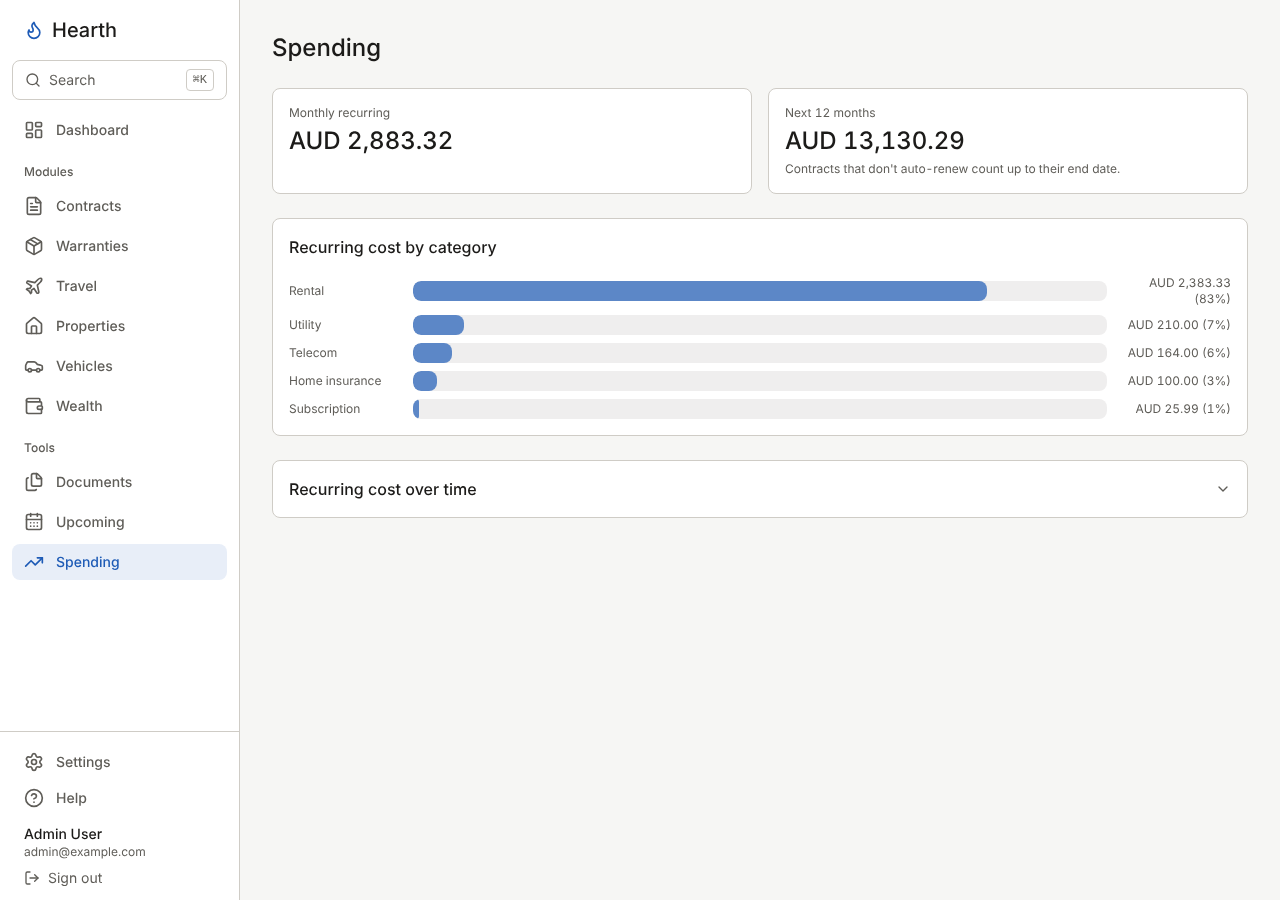
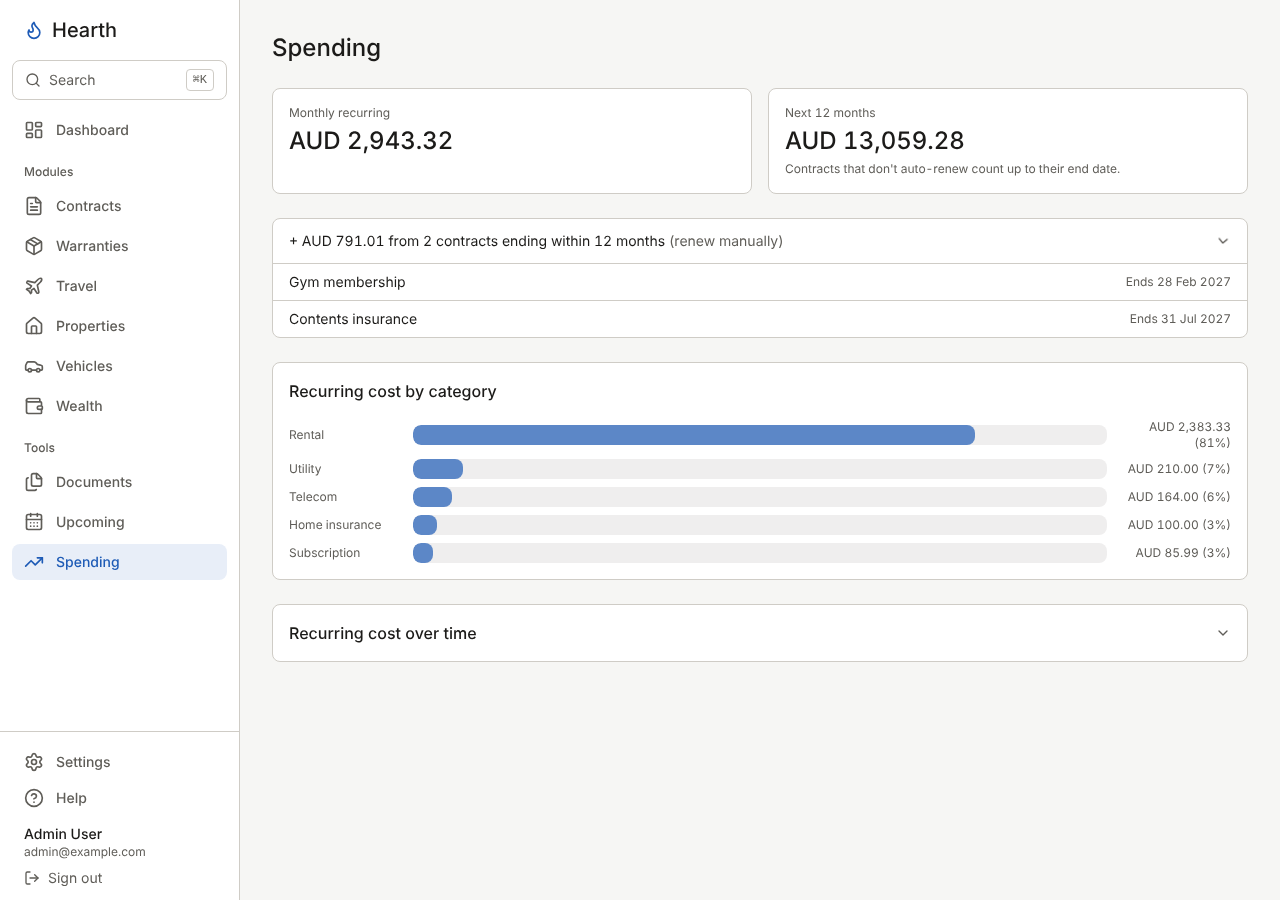
Spend lists manual renewals within the year; #514 review follow-ups
"Next 12 months" keeps stopping manual renewals at their end date. Under
the tiles, a folded line now shows what those contracts would cost for
the rest of the year if renewed, and lists them with their end dates.

From cubic's review of #514:
- The FormMessage attempt= guard matched no tags; it now matches any
  error= attribute and fails if it finds none.
- The select and FormMessage checks scan all of src/, not only the
  top-level components.
- The empty-list Recently deleted count skips rows past the 30-day window.
- The 02-validation viewport check clicks from script so Playwright's own
  scroll can't make it pass.

diff --git a/src/app/(app)/spend/page.tsx b/src/app/(app)/spend/page.tsx
@@ -5,6 +5,7 @@ import { getEnabledModuleKeys } from "@/lib/modules/enablement";
 import {
   monthlyEquivalent,
   formatCurrency,
+  formatDate,
   sumByYear,
   financialYearLabel,
   CATEGORY_LABELS,
@@ -14,6 +15,7 @@ import {
   buildYearlyTimeline,
   buildCategoryBreakdown,
   monthlySpend,
+  manualRenewalsAhead,
   nextTwelveMonthsSpend,
   timelineIsFlat,
 } from "@/lib/spend";
@@ -35,7 +37,7 @@ export default async function SpendPage({
   const { view: rawView } = await searchParams;
   const view = rawView === "yearly" ? "yearly" : "monthly";
 
-  const [enabledModules, { preferredCurrency, region }] = await Promise.all([
+  const [enabledModules, { preferredCurrency, region, dateFormat }] = await Promise.all([
     getEnabledModuleKeys(),
     getUserPreferences(),
   ]);
@@ -44,6 +46,8 @@ export default async function SpendPage({
     prisma.contract.findMany({
       where: { status: "ACTIVE", deletedAt: null },
       select: {
+        id: true,
+        title: true,
         category: true,
         cost: true,
         billingFrequency: true,
@@ -82,6 +86,8 @@ export default async function SpendPage({
   const { total: monthlyTotal, unconvertedCurrencies } = monthlySpend(contracts, preferredCurrency, rateMap);
   const hasUnconverted = unconvertedCurrencies.length > 0;
   const nextTwelveMonths = nextTwelveMonthsSpend(contracts, preferredCurrency, rateMap);
+  // The renewals "Next 12 months" leaves out, shown under the tiles.
+  const renewals = manualRenewalsAhead(contracts, preferredCurrency, rateMap);
   // #367 — the same exclusion the dashboard flags under Missing key details:
   // a cost with no billing frequency adds nothing to the monthly figure.
   const noFrequencyCount = contracts.filter((c) => c.cost != null && c.billingFrequency == null).length;
@@ -185,6 +191,36 @@ export default async function SpendPage({
           </Card>
         )}
       </div>
+
+      {/* Manual renewals inside the year: left out of "Next 12 months" until
+          renewed, listed here so the drop is explained and they get a decision. */}
+      {renewals.contracts.length > 0 && (
+        <details className={cardClass({ padding: "none" }, "group")}>
+          <summary className="flex cursor-pointer list-none items-center justify-between gap-3 px-4 py-3 text-sm [&::-webkit-details-marker]:hidden">
+            <span>
+              {renewals.amount > 0 && (
+                <>+ {formatCurrency(renewals.amount, preferredCurrency, undefined, region, { showCode: true })} from </>
+              )}
+              {renewals.contracts.length === 1 ? "1 contract" : `${renewals.contracts.length} contracts`} ending within 12
+              months <span className="text-muted">(renew manually)</span>
+            </span>
+            <ChevronDown size={16} aria-hidden className="shrink-0 text-muted transition-transform group-open:rotate-180" />
+          </summary>
+          <ul className="divide-y divide-border border-t border-border">
+            {renewals.contracts.map((c) => (
+              <li key={c.id}>
+                <Link
+                  href={`/contracts/${c.id}`}
+                  className="flex items-center justify-between gap-3 px-4 py-2 text-sm hover:bg-hover"
+                >
+                  <span className="min-w-0 truncate">{c.title}</span>
+                  <span className="shrink-0 text-xs text-muted">Ends {formatDate(c.endDate, dateFormat)}</span>
+                </Link>
+              </li>
+            ))}
+          </ul>
+        </details>
+      )}
 
       {/* Category breakdown */}
       {categoryBreakdown.length > 0 && (

diff --git a/tests/unit/consistency-pass.test.ts b/tests/unit/consistency-pass.test.ts
@@ -10,6 +10,16 @@ import { bannerRepeatsBadge, type DueEntry } from "@/lib/dueRecords";
 const root = path.join(__dirname, "..", "..");
 const read = (rel: string) => readFileSync(path.join(root, rel), "utf8");
 
+// Every .tsx file under src/, as repo-relative paths, so a check covers
+// src/app and src/components/ui as well as the top-level components.
+function tsxFiles(dir: string): string[] {
+  return readdirSync(path.join(root, dir)).flatMap((name) => {
+    const rel = path.join(dir, name);
+    if (statSync(path.join(root, rel)).isDirectory()) return name === "generated" ? [] : tsxFiles(rel);
+    return name.endsWith(".tsx") ? [rel] : [];
+  });
+}
+
 function pages(dir: string): string[] {
   return readdirSync(dir).flatMap((name) => {
     const full = path.join(dir, name);
@@ -47,13 +57,11 @@ describe("forms", () => {
 
 describe("selects", () => {
   it("styles every native select with the shared input look", () => {
-    const dir = path.join(root, "src", "components");
-    const unstyled = readdirSync(dir)
-      .filter((f) => f.endsWith(".tsx"))
+    const unstyled = tsxFiles("src")
       .flatMap((f) =>
         // The opening tag runs to the first <option or {, which is where its
         // children start; a className set to anything but the shared helpers fails.
-        [...read(`src/components/${f}`).matchAll(/<select\b[\s\S]*?(?=<option|\n\s*\{)/g)]
+        [...read(f).matchAll(/<select\b[\s\S]*?(?=<option|\n\s*\{)/g)]
           .filter((m) => !/className=\{(selectClass|inputClass|fieldClass\(|selectClassName|pillClass\()/.test(m[0]))
           .map(() => f),
       );
@@ -119,12 +127,9 @@ describe("FormMessage on a repeated failure (#514 review)", () => {
   });
 
   it("every action-state FormMessage passes its state as the attempt", () => {
-    const sources = readdirSync(path.join(root, "src", "components"))
-      .filter((name) => name.endsWith(".tsx"))
-      .map((name) => read(path.join("src", "components", name)));
-    const missing = sources
-      .flatMap((source) => source.match(/<FormMessage error=\{\w+\?\.error\}[^>]*>/g) ?? [])
-      .filter((tag) => !tag.includes("attempt="));
-    expect(missing).toEqual([]);
+    const tags = tsxFiles("src").flatMap((f) => read(f).match(/<FormMessage\s[^>]*\berror=\{[^}]*\}[^>]*>/g) ?? []);
+    // Guard against the pattern going stale and matching nothing.
+    expect(tags.length).toBeGreaterThan(10);
+    expect(tags.filter((tag) => !tag.includes("attempt="))).toEqual([]);
   });
 });

diff --git a/tests/unit/spend-projection.test.ts b/tests/unit/spend-projection.test.ts
@@ -1,5 +1,5 @@
 import { describe, expect, it } from "vitest";
-import { nextTwelveMonthsSpend, timelineIsFlat } from "@/lib/spend";
+import { manualRenewalsAhead, nextTwelveMonthsSpend, timelineIsFlat } from "@/lib/spend";
 
 // #367 — "Next 12 months" counts a contract that won't renew by itself only
 // up to its end date, instead of monthly × 12.
@@ -60,5 +60,38 @@ describe("timelineIsFlat", () => {
   it("is flat when every bucket matches, to the cent", () => {
     expect(timelineIsFlat([{ total: 50 }, { total: 50.001 }, { total: 50 }])).toBe(true);
     expect(timelineIsFlat([{ total: 50 }, { total: 60 }])).toBe(false);
+  });
+});
+
+describe("manualRenewalsAhead", () => {
+  it("lists manual renewals ending inside the year with what the rest of the year would cost", () => {
+    const soon = contract({ endDate: day("2027-02-01") });
+    const later = contract({ endDate: day("2027-06-01"), cost: 50 });
+    const { amount, contracts } = manualRenewalsAhead([later, soon], "AUD", rates, NOW);
+    expect(contracts).toEqual([soon, later]);
+    // 2 Feb 2027 → 2 Nov 2027 is 273 days; 2 Jun 2027 → 2 Nov 2027 is 153.
+    expect(amount).toBeCloseTo((1200 * 273) / 365 + (600 * 153) / 365, 6);
+  });
+
+  it("adds up with Next 12 months to the full year", () => {
+    const c = contract({ endDate: day("2027-02-01") });
+    const total = nextTwelveMonthsSpend([c], "AUD", rates, NOW) + manualRenewalsAhead([c], "AUD", rates, NOW).amount;
+    expect(total).toBeCloseTo(1200, 6);
+  });
+
+  it("leaves out auto-renewing, fixed-term, ended and later contracts", () => {
+    const skipped = [
+      contract({ endDate: day("2027-02-01"), renewalType: "AUTO_RENEW" }),
+      contract({ endDate: day("2027-02-01"), renewalType: "FIXED_TERM" }),
+      contract({ endDate: day("2026-10-01") }),
+      contract({ endDate: day("2027-12-01") }),
+      contract(),
+    ];
+    expect(manualRenewalsAhead(skipped, "AUD", rates, NOW)).toEqual({ amount: 0, contracts: [] });
+  });
+
+  it("lists a renewal without a cost but adds nothing for it", () => {
+    const free = contract({ endDate: day("2027-02-01"), cost: null });
+    expect(manualRenewalsAhead([free], "AUD", rates, NOW)).toEqual({ amount: 0, contracts: [free] });
   });
 });

diff --git a/src/lib/spend.ts b/src/lib/spend.ts
@@ -195,6 +195,49 @@ export function nextTwelveMonthsSpend(
   return total;
 }
 
+/**
+ * The Contracts that renew manually and end inside the next 12 months, and
+ * what they would cost for the rest of that year if renewed on the same
+ * terms. "Next 12 months" leaves that part out because nothing commits the
+ * household to it yet; the Spend page shows it beside the total so the drop
+ * is explained and the renewals that need a decision are listed.
+ */
+export function manualRenewalsAhead<C extends {
+  cost: number | null;
+  currency: string;
+  billingFrequency: string | null;
+  startDate: Date | null;
+  endDate: Date | null;
+  renewalType: string | null;
+}>(
+  contracts: C[],
+  targetCurrency: string,
+  rateMap: Map<string, number>,
+  now: Date = new Date(),
+): { amount: number; contracts: C[] } {
+  const today = Date.UTC(now.getUTCFullYear(), now.getUTCMonth(), now.getUTCDate());
+  const horizon = today + YEAR_DAYS * DAY_MS;
+  let amount = 0;
+  const ending: C[] = [];
+  for (const c of contracts) {
+    if (c.renewalType !== "MANUAL_RENEWAL" || c.endDate == null) continue;
+    const end = c.endDate.getTime();
+    // Ends today or later, and before the year is out.
+    if (end < today || end + DAY_MS >= horizon) continue;
+    ending.push(c);
+    if (c.cost == null) continue;
+    const converted = convertAmount(c.cost, c.currency, targetCurrency, rateMap);
+    if (converted == null) continue;
+    const monthly = monthlyEquivalent(converted, c.billingFrequency);
+    if (monthly <= 0) continue;
+    const from = Math.max(end + DAY_MS, c.startDate?.getTime() ?? today);
+    if (horizon <= from) continue;
+    amount += monthly * 12 * ((horizon - from) / DAY_MS / YEAR_DAYS);
+  }
+  ending.sort((a, b) => a.endDate!.getTime() - b.endDate!.getTime());
+  return { amount, contracts: ending };
+}
+
 /** #367 — whether every bucket is the same, so the timeline shows no change. */
 export function timelineIsFlat(buckets: { total: number }[]): boolean {
   return buckets.every((b) => Math.abs(b.total - buckets[0].total) < 0.005);

diff --git a/e2e/specs/54-spend-page.spec.ts b/e2e/specs/54-spend-page.spec.ts
@@ -1,5 +1,6 @@
 import { test, expect } from "@playwright/test";
 import { ADMIN_AUTH_FILE } from "../env";
+import { openFormSections } from "../formSections";
 
 test.use({ storageState: ADMIN_AUTH_FILE });
 
@@ -38,4 +39,29 @@ test("Spend warns about a cost with no billing frequency and leads with categori
   await page.waitForURL(/view=yearly/);
   await expect(main.locator("details", { hasText: "Recurring cost over time" })).toHaveAttribute("open", "");
   await expect(main.getByText("Last 5 years", { exact: true })).toBeVisible();
+});
+
+test("Spend lists manual renewals ending within the year beside Next 12 months", async ({ page }) => {
+  const title = `Spend Manual Renewal ${Date.now()}`;
+  const end = new Date(Date.now() + 90 * 86_400_000).toISOString().slice(0, 10);
+  await page.goto("/contracts/new");
+  await page.locator("#title").fill(title);
+  await page.locator("#category").selectOption("UTILITY");
+  await openFormSections(page);
+  await page.locator("#provider").fill("Spend Provider");
+  await page.locator("#cost").fill("30");
+  await page.selectOption("#billingFrequency", "MONTHLY");
+  await page.locator("#endDate").fill(end);
+  await page.selectOption("#renewalType", "MANUAL_RENEWAL");
+  await Promise.all([
+    page.waitForURL(/\/contracts\/(?!new$)[^/]+$/),
+    page.locator("main button[type=submit]").click(),
+  ]);
+  const contractUrl = new URL(page.url()).pathname;
+
+  await page.goto("/spend");
+  const renewals = page.locator("main details", { hasText: "(renew manually)" });
+  await expect(renewals.locator("summary")).toContainText(/^\+ .+ from \d+ contracts? ending within 12 months/);
+  await renewals.locator("summary").click();
+  await expect(renewals.getByRole("link", { name: new RegExp(title) })).toHaveAttribute("href", contractUrl);
 });

diff --git a/tests/unit/trash-hint.test.ts b/tests/unit/trash-hint.test.ts
@@ -1,9 +1,10 @@
-import { describe, expect, it } from "vitest";
+import { afterEach, describe, expect, it, vi } from "vitest";
 import { createElement } from "react";
 import { renderToStaticMarkup } from "react-dom/server";
 import { readFileSync } from "node:fs";
 import path from "node:path";
 import { TrashHint } from "@/components/TrashHint";
+import { restorableFromTrash, TRASH_RETENTION_DAYS } from "@/lib/trash";
 
 // #514 review — an empty Contracts or Warranties list says how many of its
 // records are in Trash, so it doesn't read as "the household has none".
@@ -27,6 +28,27 @@ describe("TrashHint", () => {
     for (const name of ["ContractListClient", "ProductListClient"]) {
       const source = readFileSync(path.join(root, "src", "components", `${name}.tsx`), "utf8");
       expect(source).toMatch(/\{!filtered && <TrashHint count=\{trashCount\}/);
+    }
+  });
+});
+
+describe("restorableFromTrash", () => {
+  afterEach(() => {
+    vi.useRealTimers();
+  });
+
+  it("counts only rows still inside the retention window, not ones about to be purged", () => {
+    vi.useFakeTimers();
+    vi.setSystemTime(new Date("2026-11-02T12:00:00Z"));
+    const cutoff = restorableFromTrash().deletedAt.gte;
+    expect(cutoff.toISOString()).toBe(new Date(Date.parse("2026-11-02T12:00:00Z") - TRASH_RETENTION_DAYS * 86_400_000).toISOString());
+  });
+
+  it("is what the empty Contracts and Warranties pages count", () => {
+    const root = path.join(__dirname, "..", "..");
+    for (const [page, model] of [["contracts", "contract"], ["products", "product"]]) {
+      const source = readFileSync(path.join(root, "src", "app", "(app)", page, "page.tsx"), "utf8");
+      expect(source).toContain(`prisma.${model}.count({ where: restorableFromTrash() })`);
     }
   });
 });

diff --git a/src/app/(app)/products/page.tsx b/src/app/(app)/products/page.tsx
@@ -1,6 +1,7 @@
 import type { Metadata } from "next";
 import { redirect } from "next/navigation";
 import { prisma } from "@/lib/prisma";
+import { restorableFromTrash } from "@/lib/trash";
 import { auth } from "@/lib/auth";
 import { getUserPreferences } from "@/lib/userPreferences";
 import { ProductListClient } from "@/components/ProductListClient";
@@ -102,7 +103,7 @@ export default async function ProductsPage({
     getUserPreferences(),
     auth(),
     // #514 review — an empty list says how many are in Trash.
-    prisma.product.count({ where: { deletedAt: { not: null } } }),
+    prisma.product.count({ where: restorableFromTrash() }),
   ]);
   const products = dueFilter ? allProducts.filter(dueFilter.matches) : allProducts;
   // Hidden while a list filter is on (see ProductListClient), so not loaded either.

diff --git a/src/app/(app)/contracts/page.tsx b/src/app/(app)/contracts/page.tsx
@@ -1,6 +1,7 @@
 import type { Metadata } from "next";
 import { redirect } from "next/navigation";
 import { prisma } from "@/lib/prisma";
+import { restorableFromTrash } from "@/lib/trash";
 import { auth } from "@/lib/auth";
 import { getUserPreferences } from "@/lib/userPreferences";
 import { ContractListClient } from "@/components/ContractListClient";
@@ -105,7 +106,7 @@ export default async function ContractsPage({
     getUserPreferences(),
     auth(),
     // #514 review — an empty list says how many are in Trash.
-    prisma.contract.count({ where: { deletedAt: { not: null } } }),
+    prisma.contract.count({ where: restorableFromTrash() }),
   ]);
   const contracts = dueFilter ? allContracts.filter(dueFilter.matches) : allContracts;
 

diff --git a/src/lib/trash.ts b/src/lib/trash.ts
@@ -29,6 +29,15 @@ function expiryCutoff(): Date {
   return new Date(Date.now() - TRASH_RETENTION_DAYS * 24 * 60 * 60 * 1000);
 }
 
+/**
+ * Rows still restorable from Trash: deleted, and not yet past the retention
+ * window (expired rows are purged the next time Trash loads). For counts
+ * shown outside Trash, so they never promise a record that is about to go.
+ */
+export function restorableFromTrash(): { deletedAt: { gte: Date } } {
+  return { deletedAt: { gte: expiryCutoff() } };
+}
+
 const expired = (cutoff: Date) => ({ where: { deletedAt: { lt: cutoff } }, select: { id: true } });
 
 // Documents in Trash past their window, every kind (#396). Each is purged

diff --git a/e2e/specs/02-validation.spec.ts b/e2e/specs/02-validation.spec.ts
@@ -47,7 +47,9 @@ test("reversed date range is rejected with a cross-field error", async ({ page }
   await page.evaluate(() => window.scrollTo(0, 0));
   await page.setViewportSize({ width: 1280, height: 400 });
   await expect(alert).not.toBeInViewport();
-  await submit(page).click();
+  // A plain click() would scroll the button, and the alert above it, into
+  // view itself; clicking from script leaves the scrolling to FormMessage.
+  await submit(page).evaluate((button: HTMLButtonElement) => { button.click(); });
   await expect(alert).toBeInViewport();
 });
 

diff --git a/CHANGELOG.md b/CHANGELOG.md
@@ -79,6 +79,12 @@ Versions follow [Semantic Versioning](https://semver.org/), starting at `0.1.0`.
   selects and the chips, so the first record is on the first screen. Links
   from the dashboard still pre-select the right chip. The iOS and Android
   shell is unchanged.
+- **Spending lists the manual renewals coming up.** Under the tiles, a
+  folded line reads "+ $X from N contracts ending within 12 months (renew
+  manually)": what those contracts would cost for the rest of the year if
+  renewed on the same terms, which "Next 12 months" leaves out until you
+  renew. Open it for each contract and its end date, linked to the
+  contract. The iOS and Android shell is unchanged.
 - **Spending leads with what's useful (#367).** The "Tax-deductible / mo"
   tile is hidden when nothing is tax-deductible. Contracts with a cost but
   no billing frequency, which the dashboard and Spending both leave out of
@@ -111,6 +117,12 @@ Versions follow [Semantic Versioning](https://semver.org/), starting at `0.1.0`.
   Warranty photo upload moves into More details. Preferences explains that
   date pickers follow the browser's language. The Property form was already
   short and is unchanged, and so is the iOS and Android shell.
+
+### Fixed
+
+- **Recently deleted count on empty lists (#514 follow-up).** An empty
+  Contracts or Warranties list no longer counts records past the 30-day
+  Trash window, which are purged the next time Trash opens.
 
 ## [0.20.1] - 2026-10-31
 
